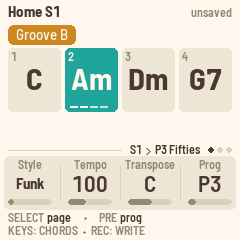
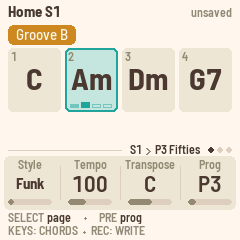
Playing bar: light teal tint, ink chord, bold beat blocks along its foot
HOME's bars, the groove and melody recording views: the bar playing is K_TEAL_T inside a teal
outline with its chord in ink; its beats as centred segments: the one now a 6 px solid teal block,
those gone by pale teal, those to come an outline. HOME's two-row cells (under 52 px) take the
middle or bold font so the chord clears the beats. Spec and manual figures updated.

Claude-Session: https://claude.ai/code/session_01KrDAEHZwidK2Hjis9LandD

Changed region(s): [[0.2625, 0.2042, 0.4958, 0.4667]]

diff --git a/firmware/src/app/pages.c b/firmware/src/app/pages.c
@@ -23,6 +23,7 @@
 #define K_ACCENT RGB(242, 120, 72)
 #define K_TEAL RGB(38, 166, 154)
 #define K_TEAL_T RGB(196, 230, 222)
+#define K_TEAL_M RGB(118, 196, 186)                  /* a playing bar's beats gone by */
 #define K_AMBER RGB(206, 138, 34)                    /* Groove B */
 #define K_SLATE RGB(84, 118, 168)                    /* Groove A */
 #define K_PLUM RGB(150, 112, 170)                    /* the melodies */
@@ -674,7 +675,8 @@ static void loop_set_name_preset(loop_t *l, int li, int idx)
 /* ---------------------------------------------------------- HOME page --- */
 /* HOME (the spec's Screens) shows the progression as bars, the same recording or listening (home_bars): a cell a bar,
  * four to a row, the bar's number and its chord (big), or its chords (small: "Am  F"), a dot for none; the bar
- * playing filled teal, its beats marked along its foot; stopped, bar 1 (where PLAY starts) ringed teal; a chord just
+ * playing tinted light teal in a teal outline (its chord in ink), its beats along its foot (the one now a bold teal
+ * block); stopped, bar 1 (where PLAY starts) ringed teal; a chord just
  * written (or put back by undo) fills its bar coral a moment. Listening (draw_home): the section (and the one queued)
  * and where it is; the chord sounding, big (coral: one from the keys, holding until the source's next change; teal:
  * the loop's or the song's) and the next; a line (LOOP: the progression's name, "starts after the Intro" while an
@@ -729,6 +731,35 @@ static int32_t bar_y(int32_t y, int32_t ch, const felucca_font_t *f)
     int32_t ty = cap_y(y, ch, f), top = f == &FONT_L ? 4 : f == &FONT_XS ? 3 : 2;
     return ty + top < y + 15 ? y + 15 - top : ty;
 }
+/* the bar playing: a light teal tint inside a teal outline (its chord in ink, readable); the cell w x h at x, y */
+static void bar_lit(int32_t x, int32_t y, int32_t w, int32_t h)
+{
+    cv_round(x, y, w, h, 5, K_TEAL);
+    cv_round(x + 2, y + 2, w - 4, h - 4, 4, K_TEAL_T);
+}
+/* a bar's beats along its foot (a cell RG_CW wide, ch tall at x, y), segments centred: the beat now a bold solid block
+ * (6 px), those gone by solid in past (4 px), those to come an outline in past; now -1 none */
+static void bar_beats(int32_t x, int32_t y, int32_t ch, int bpb, int now, uint16_t on, uint16_t past)
+{
+    int32_t gap = bpb >= 6 ? 1 : 2, sw = (RG_CW - 8 + gap) / bpb, x0 = x + (RG_CW - (bpb * sw - gap)) / 2, yb = y + ch - 4;
+    for (int k = 0; k < bpb; k++) {
+        int32_t sx = x0 + k * sw, w = sw - gap;
+        if (k == now)
+            cv_rect(sx, yb - 6, w, 6, on);
+        else if (k < now)
+            cv_rect(sx, yb - 4, w, 4, past);
+        else {
+            cv_rect(sx, yb - 4, w, 1, past);
+            cv_rect(sx, yb - 1, w, 1, past);
+            cv_rect(sx, yb - 3, 1, 2, past);
+            cv_rect(sx + w - 1, yb - 3, 1, 2, past);
+        }
+    }
+}
+/* a cell tall enough for a big chord: its number, the chord's capitals (26 px), the beats along its foot (10 px) under
+ * them (shorter, 44 px and up: the middle font for a chord in capitals ("F7"), else the bold one; every cell alike, so
+ * the bar playing reads the same as the others) */
+#define BIG_CH 52
 #define HB_Y 24                                      /* the bars' top: under the first line (a progression playing) */
 #define HB_Y2 40                                     /* ... under two (a song: what comes next; recording: where) */
 /* the bars as HOME draws them: loop l's (len beats, bpb a bar), n cells (its shown bars, then bars to come,
@@ -779,8 +810,8 @@ static void home_bars(const bars_t *v)
         int32_t x = RG_X + (b % 4) * (RG_CW + 4), y = v->y0 + (b / 4 - v->top) * (ch + 2), nx;
         int plays = b == v->focus && !v->cursor, cur = b == v->focus && v->cursor, out = b >= v->out_from;
         int flash = b == v->fbar, st = b == v->start && !flash, nch = 0, k, snd = -1;
-        uint16_t fill = flash ? K_ACCENT : plays ? K_TEAL : out ? K_BG : K_PANEL;
-        uint16_t fg = flash || plays ? K_BG : K_TEXT;
+        uint16_t fill = flash ? K_ACCENT : plays ? K_TEAL_T : out ? K_BG : K_PANEL;
+        uint16_t fg = flash ? K_BG : K_TEXT;
         char nm[4][12];
         if (cur) {                                   /* the cursor: a coral ring (CUR_RING px, as every cursor) */
             cv_round(x, y, RG_CW, ch, 5, K_ACCENT);
@@ -788,13 +819,15 @@ static void home_bars(const bars_t *v)
         } else if (st) {                             /* where PLAY starts: an ink ring (no colour: nothing sounds yet) */
             cv_round(x, y, RG_CW, ch, 5, K_TEXT);
             cv_round(x + 2, y + 2, RG_CW - 4, ch - 4, 4, fill);
-        } else if (out && !flash) {                  /* a bar to come: its outline */
+        } else if (plays && !flash)                  /* the bar playing: tinted, a teal outline */
+            bar_lit(x, y, RG_CW, ch);
+        else if (out && !flash) {                    /* a bar to come: its outline */
             cv_round(x, y, RG_CW, ch, 5, K_LINE);
             cv_round(x + 1, y + 1, RG_CW - 2, ch - 2, 4, fill);
         } else
             cv_round(x, y, RG_CW, ch, 5, fill);
         itoa_u((uint32_t)b + 1u, t);                 /* its number in the corner, clear of a ring */
-        nx = cv_text(x + 3, ch >= 33 ? y + 1 : y + 4, &FONT_XS, t, flash || plays ? K_BG : out ? K_LINE : K_DIM) + 4;
+        nx = cv_text(x + 3, ch >= 33 ? y + 1 : y + 4, &FONT_XS, t, flash ? K_BG : out ? K_LINE : K_DIM) + 4;
         for (k = 0; k < bpb; k++) {                  /* its chords (and which sounds now: the last at or before the beat) */
             int idx = b * bpb + k;
             uint16_t c = idx < len && idx < ARR_LOOP_BEATS ? l->ch[idx] : LC_SAME;
@@ -809,8 +842,10 @@ static void home_bars(const bars_t *v)
             text_c(x + RG_CW / 2, bar_y(y, ch, &FONT_L), &FONT_L, t, K_ACCENT);
         } else if (nch == 1) {                       /* one chord: as big as fits, centred (tall cells) */
             int32_t tx = ch >= 33 ? x + 4 : nx, tw = RG_CW - (tx - x) - 3;
-            if (ch >= 44 && text_w(&FONT_L, nm[0]) <= RG_CW - 2 * CUR_RING - 4)   /* (3 px clear of a ring) */
+            if (ch >= BIG_CH && text_w(&FONT_L, nm[0]) <= RG_CW - 2 * CUR_RING - 4)   /* (3 px clear of a ring) */
                 text_c(x + RG_CW / 2, bar_y(y, ch, &FONT_L), &FONT_L, nm[0], fg);
+            else if (ch >= 44 && upper_only(nm[0]) && text_w(&FONT_M, nm[0]) <= RG_CW - 2 * CUR_RING - 4)
+                text_c(x + RG_CW / 2, bar_y(y, ch, &FONT_M), &FONT_M, nm[0], fg);   /* (between: no lower case) */
             else if (ch >= 33 && text_w(&FONT_B, nm[0]) <= tw)
                 text_c(x + RG_CW / 2, bar_y(y, ch, &FONT_B), &FONT_B, nm[0], fg);
             else if (ch >= 33 && text_w(&FONT_XS, nm[0]) <= tw)
@@ -836,17 +871,14 @@ static void home_bars(const bars_t *v)
                     tx = x + (RG_CW - text_w(f, t)) / 2;
                 for (k = 0; k < nch; k++)
                     tx = cv_text(tx + (k ? text_w(f, "  ") : 0), ty, f, nm[k],
-                                 plays && k != snd ? K_TEAL_T : fg);
+                                 plays && k != snd ? K_DIM : fg);
             }
         } else if (!out)                             /* none: a dot, in the middle */
             cv_round(ch >= 33 ? x + RG_CW / 2 - 2 : (nx + x + RG_CW) / 2 - 2, y + ch / 2 - 2, 4, 4, 1,
-                     flash || plays ? K_BG : K_DIM);
-        if (b == v->focus) {                         /* its beats along its foot: the one now (and those before) lit */
-            int32_t sw = (RG_CW - 10) / bpb;
-            for (k = 0; k < bpb; k++)
-                cv_rect(x + 5 + k * sw, y + ch - 6, sw - 2, 2,
-                        v->cursor ? (k == v->fbeat ? K_ACCENT : K_LINE) : k <= v->fbeat ? K_BG : K_TEAL_T);
-        }
+                     flash ? K_BG : K_DIM);
+        if (b == v->focus)                           /* its beats along its foot: the one now bold, those before lit */
+            bar_beats(x, y, ch, bpb, v->fbeat, flash ? K_BG : v->cursor ? K_ACCENT : K_TEAL,
+                      flash ? RGB(250, 196, 170) : v->cursor ? K_LINE : K_TEAL_M);
     }
     if (v->rows > v->vis) {                          /* the scroll bar: where the window is */
         int32_t th = v->vis * (ch + 2) - 2, bh = th * v->vis / v->rows, by = v->y0 + th * v->top / v->rows;
@@ -1794,7 +1826,7 @@ static void draw_lead_rec(void) { draw_lead(1); }
 static void draw_trk_rec(void)
 {
     int s = pslot(), trk = proj.trk & 7, nb = app.hdr[s].bars, bpb = app.hdr[s].beats, play = arr_playing;
-    int wait = !arr_recording || arr_rec_wait, focus = -1, fbeat = 0, next = -1, cnt = 0, pass = 1, rows, ch, b, k;
+    int wait = !arr_recording || arr_rec_wait, focus = -1, fbeat = 0, next = -1, cnt = 0, pass = 1, rows, ch, b;
     int ll = loop_longer(), lbar = -1, lbars = 0;
     uint32_t blen, bar, bt, h, n, e, lo = 127, hi = 0, fbars = 0;
     const arr_trk_t *tr;
@@ -1884,19 +1916,21 @@ static void draw_trk_rec(void)
     for (b = 0; b < nb; b++) {                       /* the bars */
         int32_t x = RG_X + (b % 4) * (RG_CW + 4), y = TR_Y + (b / 4) * (ch + 3), ax, aw, ay, ah, nh;
         int plays = b == focus, cin = b == next, fl = fbars >> b & 1u;
-        uint16_t fill = fl ? K_ACCENT : plays ? K_TEAL : K_PANEL, fg = plays || fl ? K_BG : K_TEXT;
+        uint16_t fill = fl ? K_ACCENT : plays ? K_TEAL_T : K_PANEL, fg = fl ? K_BG : K_TEXT;
         if (cin) {                                   /* the bar recording starts on: the cursor's coral ring */
             cv_round(x, y, RG_CW, ch, 5, K_ACCENT);
-            cv_round(x + CUR_RING, y + CUR_RING, RG_CW - 2 * CUR_RING, ch - 2 * CUR_RING, 4, plays ? K_TEAL : K_BG);
-        } else
+            cv_round(x + CUR_RING, y + CUR_RING, RG_CW - 2 * CUR_RING, ch - 2 * CUR_RING, 4, plays ? K_TEAL_T : K_BG);
+        } else if (plays && !fl)                     /* the bar playing: tinted, a teal outline */
+            bar_lit(x, y, RG_CW, ch);
+        else
             cv_round(x, y, RG_CW, ch, 5, fill);
         itoa_u((uint32_t)b + 1u, t);
-        ax = ch >= 30 ? x + 4 : cv_text(x + 3, cap_y(y, ch, &FONT_XS), &FONT_XS, t, plays || fl ? K_BG : K_DIM) + 3;
+        ax = ch >= 30 ? x + 4 : cv_text(x + 3, cap_y(y, ch, &FONT_XS), &FONT_XS, t, fl ? K_BG : K_DIM) + 3;
         if (ch >= 30)                                /* its number in the corner (as HOME's bars) */
-            cv_text(x + 3, y + 1, &FONT_XS, t, plays || fl ? K_BG : cin ? K_ACCENT : K_DIM);
+            cv_text(x + 3, y + 1, &FONT_XS, t, fl ? K_BG : cin ? K_ACCENT : K_DIM);
         aw = x + RG_CW - 4 - ax;
         ay = ch >= 30 ? y + 16 : y + 3;
-        ah = y + ch - 7 - ay;
+        ah = y + ch - 11 - ay;                       /* (clear of the beats along the foot) */
         nh = ah >= 30 ? 3 : 2;
         if (cin && cnt) {                            /* the count-in, big */
             itoa_u((uint32_t)cnt, t);
@@ -1918,11 +1952,8 @@ static void draw_trk_rec(void)
             ny = ay + ah - nh - (hi > lo ? (int32_t)((v->note - lo) * (uint32_t)(ah - nh) / (hi - lo)) : (ah - nh) / 2);
             cv_rect(nx, ny, nw, nh, fg);
         }
-        if (plays) {                                 /* its beats along its foot: the one now (and those before) lit */
-            int32_t sw = (RG_CW - 10) / bpb;
-            for (k = 0; k < bpb; k++)
-                cv_rect(x + 5 + k * sw, y + ch - 6, sw - 2, 2, k <= fbeat ? K_BG : K_TEAL_T);
-        }
+        if (plays)                                   /* its beats along its foot: the one now bold, those before lit */
+            bar_beats(x, y, ch, bpb, fbeat, fl ? K_BG : K_TEAL, fl ? RGB(250, 196, 170) : K_TEAL_M);
     }
     cv_blit(0, MAIN_Y);
 }
@@ -2054,16 +2085,18 @@ static void draw_lead(int rec)
         int bi = win * 8 + b, plays = bi == focus, start = ((rec ? why >= 3 : !live && n) && why < 7 && bi == 0) || bi == cin;
         int fl = bi < 32 && (fbars >> bi & 1u);
         int32_t x = RG_X + (b % 4) * (RG_CW + 4), y = TR_Y + (b / 4) * (ch + 3), ax, aw, ay, ah, nh;
-        uint16_t fg = plays || fl ? K_BG : K_TEXT, other = fl ? RGB(250, 196, 170) : plays ? K_TEAL_T : K_LINE;
-        uint16_t fill = fl ? K_ACCENT : plays ? K_TEAL : K_PANEL;
+        uint16_t fg = fl ? K_BG : K_TEXT, other = fl ? RGB(250, 196, 170) : plays ? K_TEAL_M : K_LINE;
+        uint16_t fill = fl ? K_ACCENT : plays ? K_TEAL_T : K_PANEL;
         uint32_t b0 = (uint32_t)bi * blen;
         if (start) {                                 /* the bar it starts in (the cursor): the cursor's coral ring */
             cv_round(x, y, RG_CW, ch, 5, K_ACCENT);
             cv_round(x + CUR_RING, y + CUR_RING, RG_CW - 2 * CUR_RING, ch - 2 * CUR_RING, 4, fill);
-        } else
+        } else if (plays && !fl)                     /* the bar playing: tinted, a teal outline */
+            bar_lit(x, y, RG_CW, ch);
+        else
             cv_round(x, y, RG_CW, ch, 5, fill);
         itoa_u((uint32_t)bi + 1u, t);                /* its number in the corner (as HOME's bars) */
-        cv_text(x + 3, y + 1, &FONT_XS, t, plays || fl ? K_BG : start ? K_ACCENT : K_DIM);
+        cv_text(x + 3, y + 1, &FONT_XS, t, fl ? K_BG : start ? K_ACCENT : K_DIM);
         if (bi == cin) {                             /* the count-in, big */
             itoa_u((uint32_t)cbeats, t);
             text_c(x + RG_CW / 2, bar_y(y, ch, ch >= 36 ? &FONT_L : &FONT_B), ch >= 36 ? &FONT_L : &FONT_B, t, K_ACCENT);
@@ -2072,7 +2105,7 @@ static void draw_lead(int rec)
         ax = x + 4;
         aw = RG_CW - 8;
         ay = y + 16;
-        ah = y + ch - 7 - ay;
+        ah = y + ch - 11 - ay;                       /* (clear of the beats along the foot) */
         nh = ah >= 24 ? 3 : 2;
         for (int pass = 0; pass < 2; pass++)         /* the lead's notes in this bar: ticks (the other lead's first, dim) */
             for (i = i0; i < i1 && i < leads.n; i++) {
@@ -2087,11 +2120,8 @@ static void draw_lead(int rec)
                 ny = ay + ah - nh - (hi > lo ? (int32_t)((e->note - lo) * (uint32_t)(ah - nh) / (hi - lo)) : (ah - nh) / 2);
                 cv_rect(nx, ny, nw, nh, pass ? fg : other);
             }
-        if (plays) {                                 /* its beats along its foot: the one now (and those before) lit */
-            int32_t sw = (RG_CW - 10) / bpb;
-            for (int q = 0; q < bpb; q++)
-                cv_rect(x + 5 + q * sw, y + ch - 6, sw - 2, 2, q <= fbeat ? K_BG : K_TEAL_T);
-        }
+        if (plays)                                   /* its beats along its foot: the one now bold, those before lit */
+            bar_beats(x, y, ch, bpb, fbeat, fl ? K_BG : K_TEAL, fl ? RGB(250, 196, 170) : K_TEAL_M);
     }
     if (nb > 8) {                                    /* a longer row: which eight ("9-16 of 24"), over the bars' right */
         p = itoa_u((uint32_t)win * 8u + 1u, t);

diff --git a/docs/superpowers/specs/2026-10-11-visibility-design.md b/docs/superpowers/specs/2026-10-11-visibility-design.md
@@ -37,6 +37,14 @@ Each colour means one thing, on every page:
 - **Teal: sounding now**, and nothing else: the bar, beat, section, progression playing; the playhead; a melody's
   chip while it sounds; HOME held's progression playing (filled) and groove playing (ringed), only while playing;
   Free's chord while the band plays it.
+  - **A bar playing** (HOME's bars, recording a groove, recording a melody; `bar_lit` / `bar_beats` in pages.c): a
+    light teal tint (K_TEAL_T) inside a 2 px teal outline, its number dim and its chord in ink (readable at arm's
+    length; of several chords the one sounding ink, the others dim). Its beats as segments along its foot, centred:
+    the beat now a bold solid teal block (6 px tall), those gone by solid pale teal (K_TEAL_M, 4 px), those to come a
+    pale teal outline (4 px); 6 and 7 beats closer together. A cursor's coral ring on the bar playing keeps the tint
+    inside it (the ring stays distinct); with the cursor stepping (no playhead) the beat now is coral on neutral.
+    A cell too short for the big chord over the beats (under 52 px: HOME's two rows) shows it in the middle font
+    (capitals only, "F7") or the bold one, every cell alike.
 - **Coral: you**: the cursor, an edit's flash, the knob turned last (value and bar), REC (its dot, the row being
   recorded), the chord you play over a progression (Home, top right, until the progression's next change), the
   progression or groove you asked for (HOME held), questions and messages.
